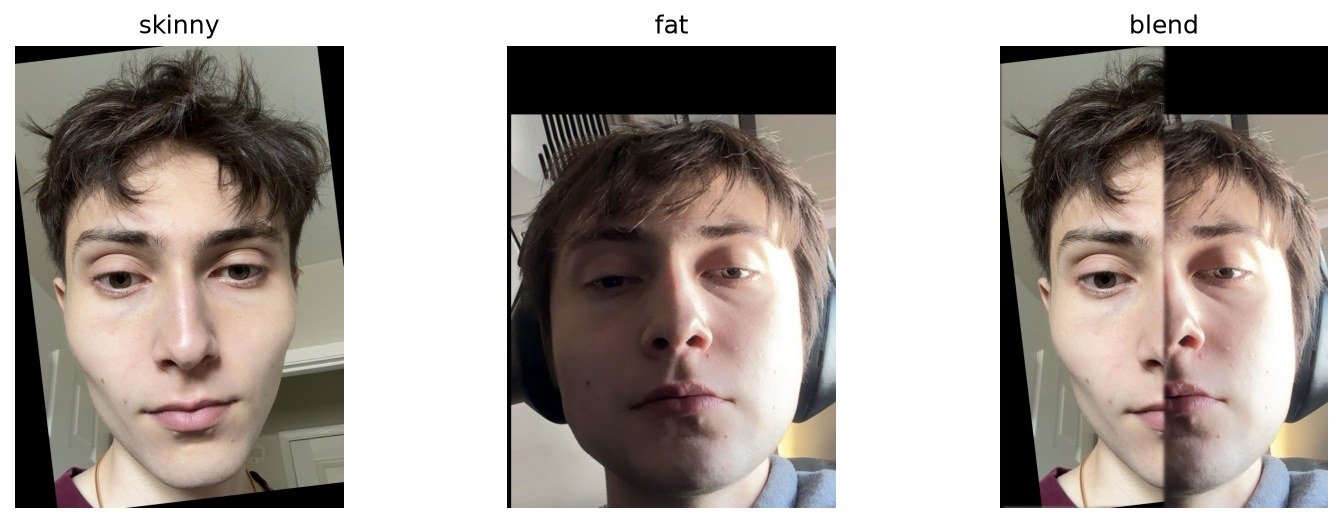
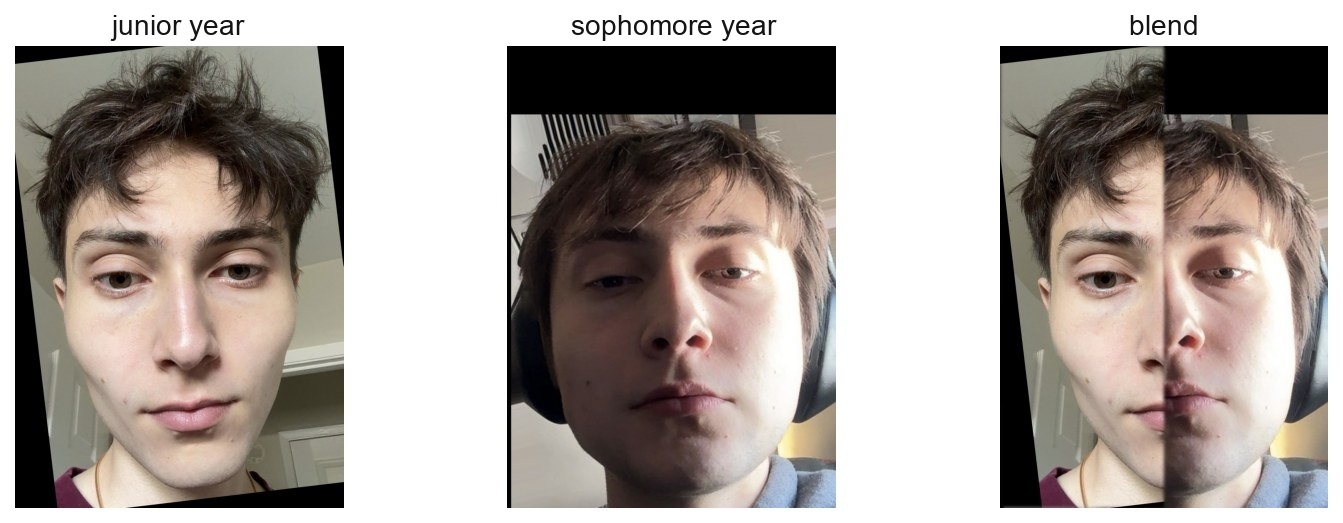
Update CS180 blend labels

Changed region(s): [[0.4274, 0.0306, 0.58, 0.0918], [0.0611, 0.0306, 0.1832, 0.0918], [0.8243, 0.0306, 0.8853, 0.0612]]

diff --git a/app/data/cs180.ts b/app/data/cs180.ts
@@ -596,7 +596,7 @@ export const cs180Projects: Cs180Project[] = [
         title: '2.4 multiresolution blending',
         prose: [
           'for multiresolution blending, i blend the two laplacian stacks one level at a time. at each level, i use the matching gaussian-mask level to interpolate between the two images: α·a + (1−α)·b. then i sum the blended laplacian bands back together to get the final image. using a gaussian stack for the mask is important because it lets high-frequency details keep a relatively sharp boundary while lower-frequency colors and lighting transition more smoothly.',
-          'the apple / orange blend is the vertical-seam example from figure 3.42. the skinny / fat blend uses the same kind of vertical step mask on two photos of me from sophomore to junior year, after click-aligning the eyes. the lombard / lava example uses an irregular hand-drawn mask instead of a straight seam. i used the famous lombard street in san francisco as the base image, and in the mask, white selects the road area, so the lava fills the street while the buildings stay mostly from the original lombard image.',
+          'the apple / orange blend is the vertical-seam example from figure 3.42. the junior year / sophomore year blend uses the same kind of vertical step mask on two photos of me from sophomore to junior year, after click-aligning the eyes. the lombard / lava example uses an irregular hand-drawn mask instead of a straight seam. i used the famous lombard street in san francisco as the base image, and in the mask, white selects the road area, so the lava fills the street while the buildings stay mostly from the original lombard image.',
         ],
         equations: [
           'Blended level: Lᶜᵢ = MᵢLᴬᵢ + (1 − Mᵢ)Lᴮᵢ',
@@ -612,8 +612,8 @@ export const cs180Projects: Cs180Project[] = [
           },
           {
             src: '/cs180/2/fat-skinny-strip.jpg',
-            caption: 'skinny / fat · vertical seam after aligning eyes',
-            alt: 'skinny fat blend strip',
+            caption: 'junior year / sophomore year · vertical seam after aligning eyes',
+            alt: 'junior year sophomore year blend strip',
             wide: true,
           },
           {
